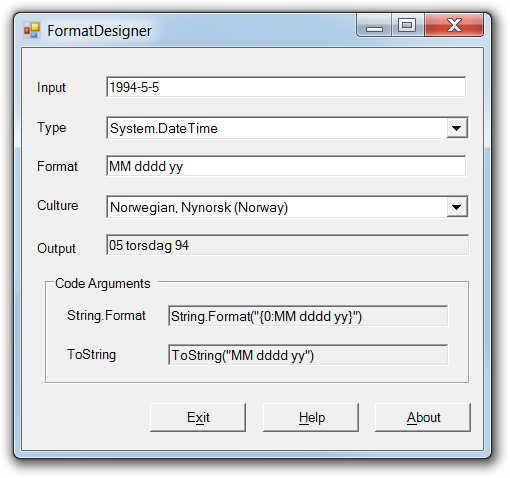
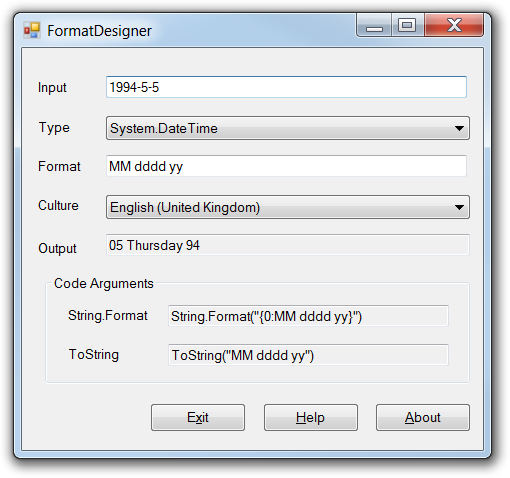
Enable visual styling to use OS theme

diff --git a/FormatDesignerForm.cs b/FormatDesignerForm.cs
@@ -46,6 +46,8 @@ namespace FormatDesigner
         [STAThread]
         static void Main()
         {
+            Application.EnableVisualStyles();
+            Application.SetCompatibleTextRenderingDefault(false);
             Application.Run(new FormatDesignerForm());
         }
 
